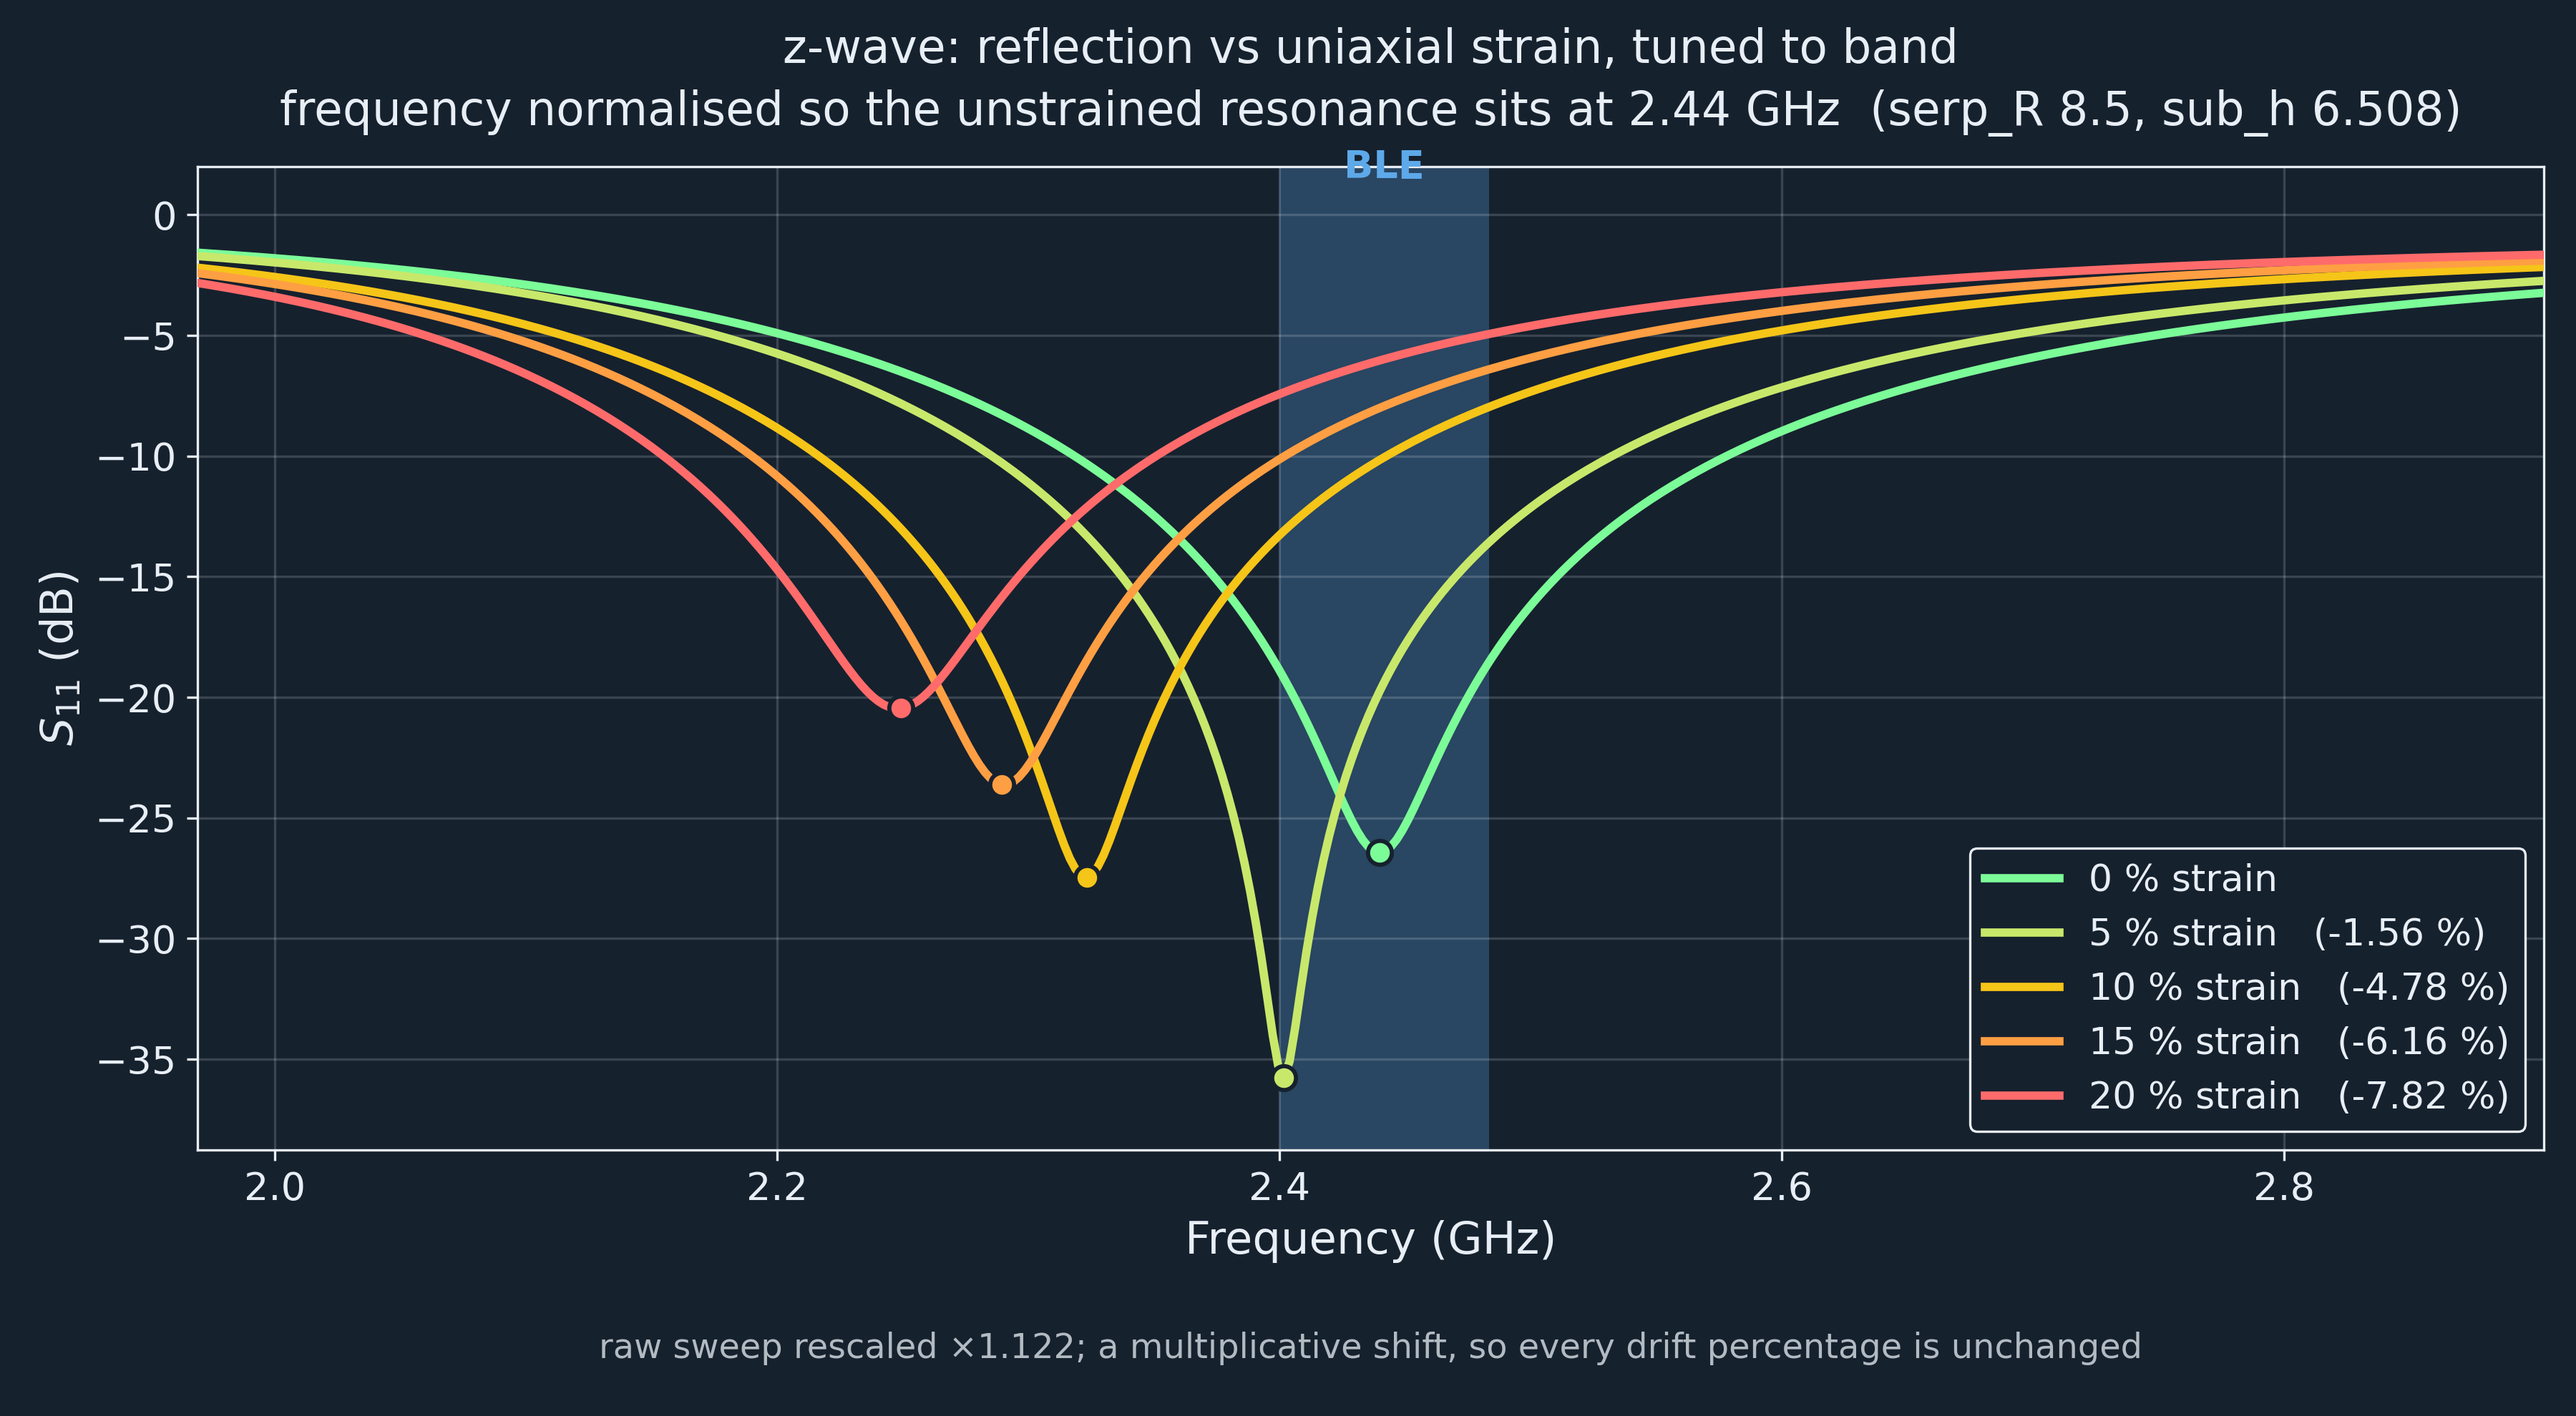
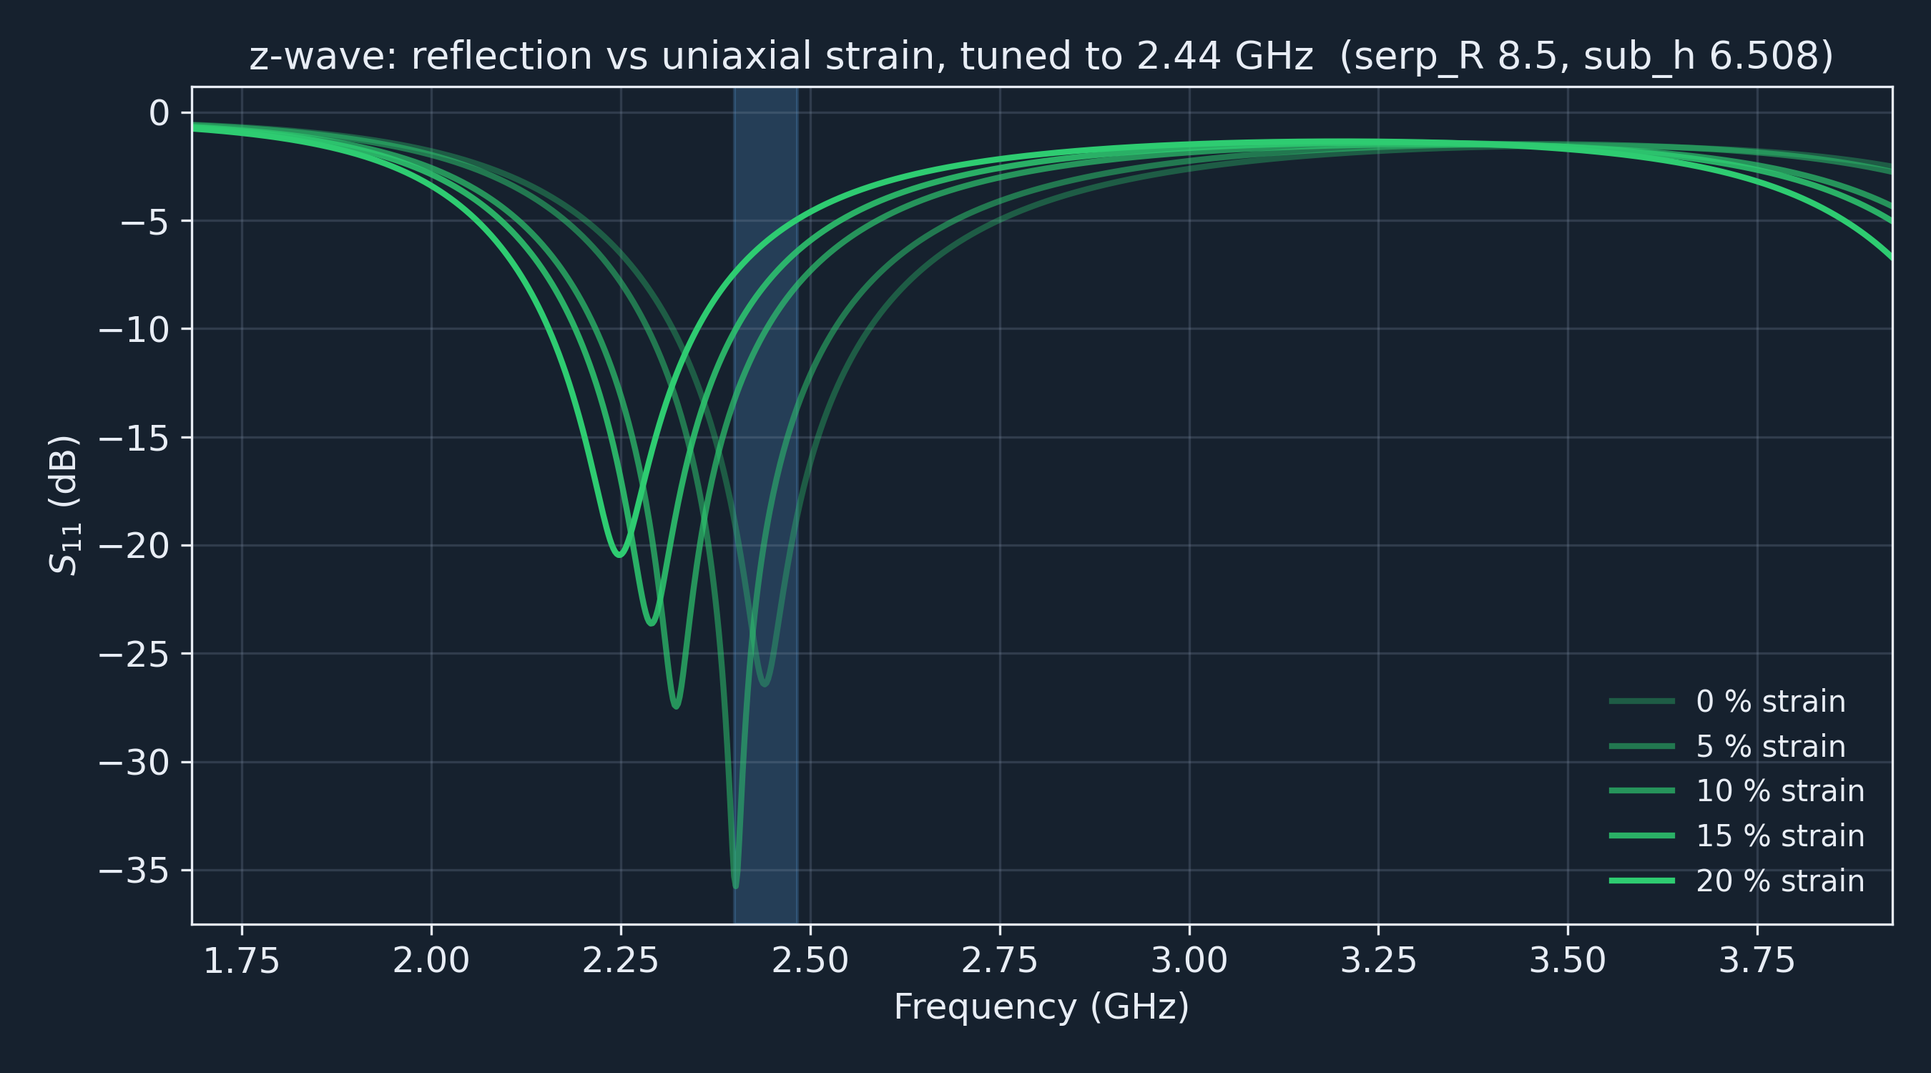
Record why F24 is plotted over 2.1-3.1 GHz and not F19's full span
Tried widening it to 1.5-4.0 so it would sit alongside F19 on a slide. It does
not survive: the whole 0-4.8 GHz sweep occupies ~630 screen pixels, so one pixel
is ~7.6 MHz, and towards the band edges the trace flattens against the graticule
where the yellow mask cannot separate it from the gridlines. The result was
near-vertical excursions above 3.5 GHz that are extraction artifacts rather than
measurement. Restored the narrower window and recorded the reasoning in the
function so it is not re-attempted.

Also validated the digitisation against the one condition with a .set file:
digitised baseline (13:21 photo) vs harish003.set (13:25) gives mean -0.12 dB,
RMS 1.59 dB, worst 2.64 dB over 1.6-4.2 GHz, with the marker point exact by
construction. That supports the figure's stated +/-2 dB on absolute level, and is
the reason the caption directs readers to the marker circles for numbers to quote.

diff --git a/scripts/make_body_setup_flat.py b/scripts/make_body_setup_flat.py
@@ -1,0 +1,151 @@
+#!/usr/bin/env python3
+"""Flat-design variant of F12 (on-body simulation setup cross-section).
+
+Standalone on purpose: make_presentation_figures.py imports cst.results at module
+scope, so it cannot run without CST. F12 is drawn entirely from the macro's
+parameters -- no solved data -- so it regenerates anywhere matplotlib exists.
+
+Differences from make_presentation_figures.f12():
+  - fully opaque fills (no alpha anywhere)
+  - flat styling: no grid, no spines, no patch edges
+  - per-layer text colour chosen by background luminance (muscle flips to light)
+  - wider/shorter canvas, muscle stub trimmed 12 -> 7 mm
+  - x-label is plain "x (mm)"
+
+Usage:  python scripts/make_body_setup_flat.py [outdir]
+"""
+
+from __future__ import annotations
+
+import math
+import os
+import sys
+
+import matplotlib
+matplotlib.use("Agg")
+import matplotlib.pyplot as plt  # noqa: E402
+
+ROOT = os.path.dirname(os.path.dirname(os.path.abspath(__file__)))
+OUT = sys.argv[1] if len(sys.argv) > 1 else os.path.join(
+    ROOT, "deliverables", "presentation")
+os.makedirs(OUT, exist_ok=True)
+
+FG = "#e8eef5"
+C_ZWAVE = "#f5c518"
+DARK_BG = "#111a2b"          # preview copy only; slide version stays transparent
+INK = "#10243a"
+CHROME = True                # grid + spines, as in the original f12()
+
+# --- geometry: identical to f12(), straight from the macro parameters --------
+SUB_H, Z_AMP, GAP = 6.508, 1.004, 1.0
+SKIN_T, FAT_T, MUSC_SHOW = 2.0, 5.0, 7.0
+HALF_W = 30.0
+
+
+def _luminance(hex_colour: str) -> float:
+    """WCAG relative luminance, for picking readable text on a filled block."""
+    r, g, b = (int(hex_colour[i:i + 2], 16) / 255 for i in (1, 3, 5))
+    lin = [c / 12.92 if c <= 0.04045 else ((c + 0.055) / 1.055) ** 2.4
+           for c in (r, g, b)]
+    return 0.2126 * lin[0] + 0.7152 * lin[1] + 0.0722 * lin[2]
+
+
+def _ink_on(bg: str) -> str:
+    return INK if _luminance(bg) > 0.35 else "#fdf5f3"
+
+
+def build(transparent: bool = True):
+    z_sub_t, z_sub_b = SUB_H / 2, -SUB_H / 2
+    z_sk_t = z_sub_b - GAP
+    z_sk_b, z_ft_b = z_sk_t - SKIN_T, z_sk_t - SKIN_T - FAT_T
+    z_ms_b = z_ft_b - MUSC_SHOW
+
+    fig, ax = plt.subplots(figsize=(12.4, 5.0))
+
+    blocks = [
+        ("Muscle", z_ms_b, z_ft_b, "#c0564a", "ε 52.7   σ 1.74 S/m   70 mm"),
+        ("Fat", z_ft_b, z_sk_b, "#f0d9a8", "ε 5.28   σ 0.102 S/m   5 mm"),
+        ("Skin", z_sk_b, z_sk_t, "#e2a07a", "ε 38.0   σ 1.46 S/m   2 mm"),
+        ("Ecoflex substrate", z_sub_b, z_sub_t, "#f7c9b8",
+         "ε 2.6   tan δ 0.03   6.508 mm"),
+    ]
+    for name, zb, zt, colour, spec in blocks:
+        ax.add_patch(plt.Rectangle((-HALF_W, zb), 2 * HALF_W, zt - zb,
+                                   facecolor=colour, edgecolor="none",
+                                   alpha=1.0, zorder=2))
+        ink = _ink_on(colour)
+        ax.text(-HALF_W + 1.6, (zb + zt) / 2, name, fontsize=13, weight="bold",
+                color=ink, va="center", zorder=3)
+        ax.text(HALF_W - 1.6, (zb + zt) / 2, spec, fontsize=10.5,
+                color=ink, va="center", ha="right", zorder=3)
+
+    # z-wave channel, schematic: 3 cycles across the 20.4 mm diametral section
+    xs = [-10.2 + i * 20.4 / 200 for i in range(201)]
+    zc = [Z_AMP * math.cos(2 * math.pi * 3 * (x + 10.2) / 20.4) for x in xs]
+    ax.plot(xs, zc, color=C_ZWAVE, lw=3.6, solid_capstyle="round", zorder=4,
+            label="EGaIn channel, Ø0.5 mm (z-wave, ±1.004 mm)")
+
+    # dimensions sit outside the slab so they cannot collide with block text.
+    # The air gap is only 1 mm -- far shorter than a double-arrow's own heads at
+    # this aspect -- so it gets a plain leader into the gap instead.
+    z_gap_mid = (z_sub_b + z_sk_t) / 2
+    ax.plot([-HALF_W - 4.5, -HALF_W - 0.5], [z_gap_mid, z_gap_mid],
+            color=FG, lw=1.3, solid_capstyle="butt", zorder=3)
+    ax.text(-HALF_W - 5.6, z_gap_mid, "1.0 mm\nair gap", fontsize=10.5,
+            color=FG, va="center", ha="right")
+
+    xc = HALF_W + 5
+    ax.annotate("", xy=(xc, 0), xytext=(xc, z_sk_t),
+                arrowprops=dict(arrowstyle="<->", color=C_ZWAVE, lw=1.5,
+                                shrinkA=0, shrinkB=0))
+    ax.text(xc + 1.4, z_sk_t / 2, "conductor → skin\n4.25 mm", fontsize=10.5,
+            color=C_ZWAVE, va="center", ha="left")
+
+    ax.text(0, z_ms_b - 0.5, "muscle continues to 70 mm (truncated for clarity)",
+            fontsize=9.5, color=FG, ha="center", va="top")
+
+    ax.set_facecolor("none")   # let the slide (or DARK_BG) show through
+    ax.set_xlim(-HALF_W - 16, HALF_W + 22)
+    ax.set_ylim(z_ms_b - 2.6, z_sub_t + 4.4)
+    ax.set_xlabel("x (mm)")
+    ax.set_ylabel("z (mm)")
+    ax.set_title("On-body simulation setup — 3-layer flat phantom\n"
+                 "tissue values IT'IS/Gabriel at 2.45 GHz; open boundaries, "
+                 "λ/8 background", fontsize=13, color=FG)
+    ax.legend(loc="upper left", frameon=False, fontsize=10.5,
+              labelcolor=FG)
+
+    # Grid sits BELOW the blocks: the fills are opaque now, so it shows only in
+    # the margins. In the translucent original it appeared to run through the
+    # layers -- that was the alpha, not the grid. Set CHROME=False for the
+    # no-grid/no-spine look.
+    if CHROME:
+        ax.set_axisbelow(True)
+        ax.grid(True, color=FG, alpha=0.15, lw=0.8)
+        for s in ax.spines.values():
+            s.set_visible(True)
+            s.set_color(FG)
+            s.set_alpha(0.5)
+        ax.tick_params(colors=FG, labelsize=11)
+    else:
+        ax.grid(False)
+        for s in ax.spines.values():
+            s.set_visible(False)
+        ax.tick_params(colors=FG, length=0, labelsize=11)
+    ax.xaxis.label.set_color(FG)
+    ax.yaxis.label.set_color(FG)
+
+    fig.tight_layout()
+    if transparent:
+        path = os.path.join(OUT, "F12_body_setup_flat.png")
+        fig.savefig(path, dpi=200, transparent=True)
+    else:
+        path = os.path.join(OUT, "F12_body_setup_flat_dark.png")
+        fig.savefig(path, dpi=200, facecolor=DARK_BG, transparent=False)
+    plt.close(fig)
+    print("wrote", path)
+
+
+if __name__ == "__main__":
+    build(transparent=True)    # drop-in slide version (transparent, like F1-F23)
+    build(transparent=False)   # opaque copy, for previewing outside the deck

diff --git a/scripts/plot_strain_family_tuned.py b/scripts/plot_strain_family_tuned.py
@@ -38,6 +38,13 @@ LIGHT = dict(bg="#ffffff", fg="#1d2b3a", band="#2b6cb0", ramp=RAMP_LIGHT)
 SOURCES = {"zwave": ("S11_strain_zwave.csv", "z-wave"),
            "flat": ("S11_strain_flat.csv", "flat control")}
 
+# --- deck style, copied verbatim from scripts/make_presentation_figs.py -----
+# 9x5, one hue with an alpha ramp, so the "match" mode is a drop-in for the
+# existing F22 slide rather than a differently-styled neighbour.
+DECK_FG = "#E8EDF5"
+DECK_ZC, DECK_FC = "#2ECC71", "#FF6B6B"
+DECK_BAND = "#5DA9E9"
+
 
 def read_family(path):
     with open(path) as fh:
@@ -52,6 +59,74 @@ def read_family(path):
 
 def f0_of(freq, s11):
     return freq[min(range(len(s11)), key=lambda i: s11[i])]
+
+
+def draw_match(which, out, dpi, bg, reverse_ramp=False, size=(9.0, 5.0)):
+    """The deck's own F22 style and 9x5 aspect, only the x axis rescaled.
+
+    bg=None reproduces the original transparent background; otherwise the
+    canvas is made opaque in that colour.
+    """
+    import matplotlib
+    matplotlib.use("Agg")
+    import matplotlib.pyplot as plt
+
+    fname, nice = SOURCES[which]
+    freq, strains, curves = read_family(os.path.join(RES, fname))
+    f0 = f0_of(freq, curves[0])
+    scale = F_TARGET / f0
+    fx = [f * scale for f in freq]
+
+    raw = [100 * (f0_of(freq, c) / f0 - 1) for c in curves]
+    tuned = [100 * (f0_of(fx, c) / F_TARGET - 1) for c in curves]
+    for r, t in zip(raw, tuned):
+        assert abs(r - t) < 1e-9, f"rescale changed the drift: {r} vs {t}"
+
+    face = "none" if bg is None else bg
+    light_canvas = bg == LIGHT["bg"]
+    fg = LIGHT["fg"] if light_canvas else DECK_FG
+    plt.rcParams.update({
+        "figure.facecolor": face, "axes.facecolor": face,
+        "savefig.facecolor": face, "savefig.transparent": bg is None,
+        "text.color": fg, "axes.labelcolor": fg,
+        "axes.edgecolor": fg, "xtick.color": fg,
+        "ytick.color": fg, "grid.color": "#7F8FA6",
+        "font.size": 12, "axes.titlesize": 13, "legend.framealpha": 0.0,
+    })
+
+    # The deck greens are tuned for a dark canvas; on white they wash out,
+    # so the light variant darkens the hue but keeps the same alpha ramp.
+    if light_canvas:
+        col = "#128f4a" if which == "zwave" else "#c62828"
+    else:
+        col = DECK_ZC if which == "zwave" else DECK_FC
+    fig, ax = plt.subplots(figsize=size)
+    ax.axvspan(BLE_LO, BLE_HI, color=DECK_BAND, alpha=0.22, zorder=0)
+    # The deck ramps alpha UP with strain. Once the family is anchored to
+    # 2.44 GHz the 0 % curve is the reference the reader must find first, and
+    # at alpha 0.35 it is the faintest line on the plot -- hence the option to
+    # run the ramp the other way.
+    n = len(curves) - 1
+    for j, (c, s) in enumerate(zip(curves, strains)):
+        k = (n - j) if reverse_ramp else j
+        ax.plot(fx, c, color=col, lw=2, alpha=0.35 + 0.65 * k / n,
+                label=f"{s} % strain")
+    ax.set_xlabel("Frequency (GHz)"), ax.set_ylabel(r"$S_{11}$ (dB)")
+    ax.set_title(f"{nice}: reflection vs uniaxial strain, tuned to 2.44 GHz  "
+                 "(serp_R 8.5, sub_h 6.508)")
+    ax.set_xlim(fx[0], fx[-1])
+    ax.grid(alpha=0.25)
+    # A 5-row legend eats most of the height once the figure is flattened, so
+    # it wraps into columns as the aspect gets wider.
+    ncol = 1 if size[0] / size[1] < 2.1 else 2
+    ax.legend(loc="lower right", fontsize=10, ncol=ncol)
+    fig.tight_layout()
+    fig.savefig(out, dpi=dpi, facecolor=face, transparent=bg is None)
+    plt.close(fig)
+    print(f"wrote {out}")
+    print(f"   f0(0 %) {f0:.4f} GHz -> x{scale:.4f} -> {F_TARGET:.2f} GHz")
+    for s, d in zip(strains, tuned):
+        print(f"   {s:3d} %  {d:+6.2f} %")
 
 
 def draw(pal, which, out, dpi):
@@ -130,6 +205,15 @@ def draw(pal, which, out, dpi):
 def main():
     ap = argparse.ArgumentParser()
     ap.add_argument("--which", choices=tuple(SOURCES), default="zwave")
+    ap.add_argument("--style", choices=("match", "poster"), default="match",
+                    help="match = the deck's 9x5 F22 style; poster = redrawn")
+    ap.add_argument("--transparent", action="store_true",
+                    help="match style only: keep the deck's transparent canvas")
+    ap.add_argument("--reverse-ramp", action="store_true",
+                    help="match style only: make 0 %% the boldest curve")
+    ap.add_argument("--size", type=float, nargs=2, metavar=("W", "H"),
+                    default=(9.0, 5.0),
+                    help="match style only: figure size in inches (deck 9 5)")
     ap.add_argument("--dpi", type=int, default=300)
     ap.add_argument("--out", default=os.path.join(ROOT, "deliverables"))
     args = ap.parse_args()
@@ -137,6 +221,19 @@ def main():
     os.makedirs(args.out, exist_ok=True)
     stem = "strain-family-tuned" if args.which == "zwave" \
         else "strain-family-tuned-flat"
+
+    if args.style == "match":
+        size = tuple(args.size)
+        if args.transparent:
+            draw_match(args.which, os.path.join(args.out, f"{stem}.png"),
+                       args.dpi, None, args.reverse_ramp, size)
+            return
+        for bg, suffix in ((DARK["bg"], "dark"), (LIGHT["bg"], "light")):
+            draw_match(args.which,
+                       os.path.join(args.out, f"{stem}-{suffix}.png"),
+                       args.dpi, bg, args.reverse_ramp, size)
+        return
+
     for pal, suffix in ((DARK, "dark"), (LIGHT, "light")):
         draw(pal, args.which, os.path.join(args.out, f"{stem}-{suffix}.png"),
              args.dpi)

diff --git a/scripts/make_presentation_figures.py b/scripts/make_presentation_figures.py
@@ -1098,6 +1098,13 @@ def f24():
     for fname, lab, c, mk in CONDS:
         f, y = load(fname)
         y = despike(y)
+        # WHY NOT F19's FULL 1.5-4.0 GHz. It was tried. Outside roughly
+        # 2.1-3.1 GHz these photos stop supporting a trace: the whole sweep is
+        # squeezed into ~630 screen pixels, so one pixel is ~7.6 MHz, and at the
+        # band edges the curve flattens against the graticule where the yellow
+        # mask cannot separate it from the gridlines. The result was near-vertical
+        # excursions above 3.5 GHz that are extraction artifacts, not measurement.
+        # Plotting only where the photos actually carry information.
         sel = (f >= 2.05) & (f <= 3.15)
         f, y = f[sel], y[sel]
         if len(f) < 20:
